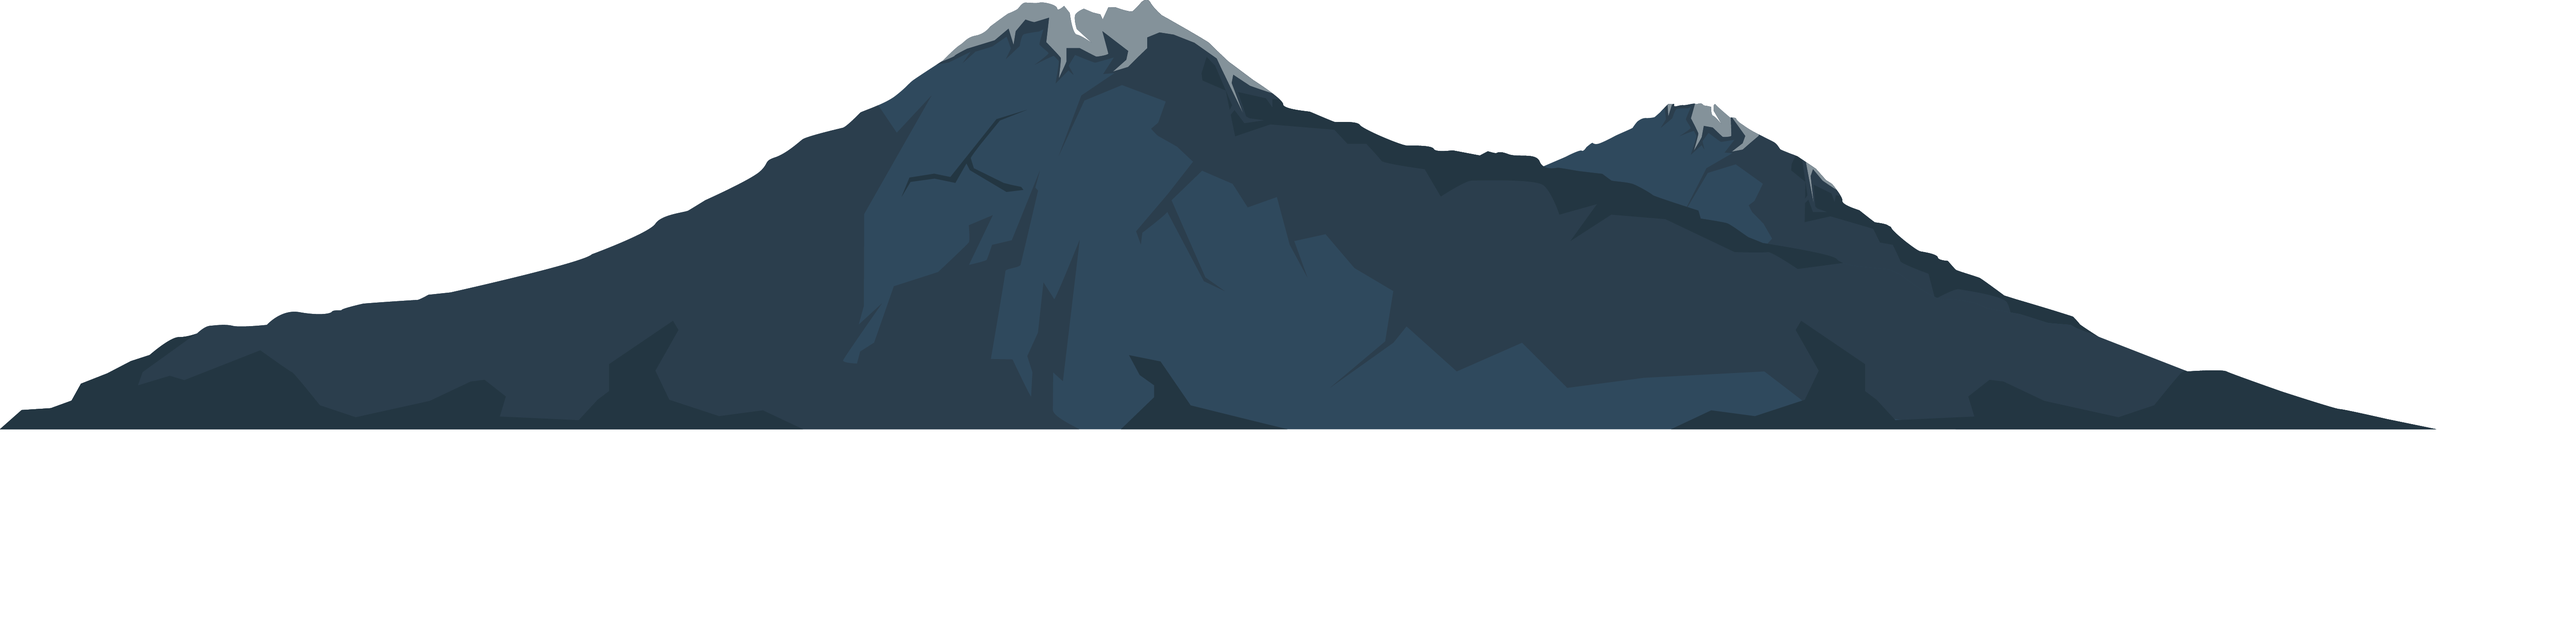
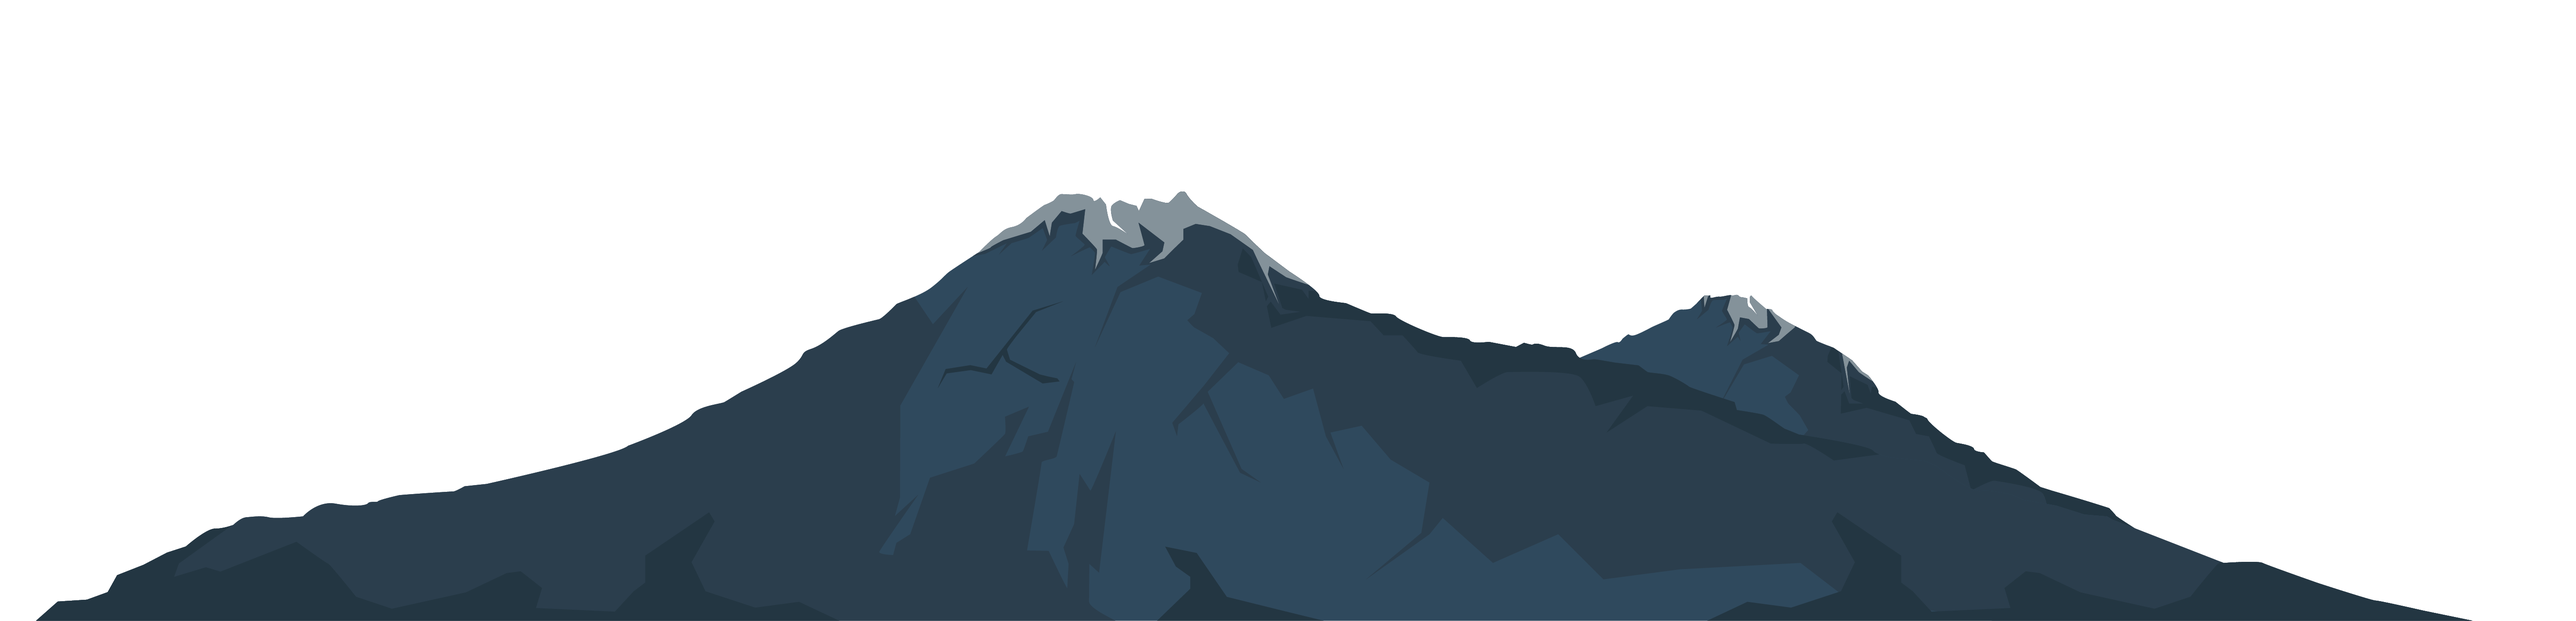
ubah

diff --git a/index.html b/index.html
@@ -88,6 +88,7 @@
                         <li class="white-text">
                             <p class="white-text">Official akun resmi PPSMB UGM, Line, Twitter, Instagram :<b class="penting-text">@PPSMB_UGM</b></p>
                         </li>
+            
                         <li class="white-text">
                             <p class="white-text">
                                 Sekretariat Subdirektorat Pengembangan Karakter Mahasiswa Direktorat Kemahasiswaan Universitas Gadjah Mada. Jl. Asem Kranji Blok K-8 Sekip, Yogyakarta. 
@@ -120,6 +121,7 @@
                     </div>
                 </div>
                 <div class="col-md-6 co-xs-12 text-right">
+                   
                     <div class="social-media">
                         <div class="social-wrapper">
                             <a href="https://www.facebook.com/PPSMB-Palapa-UGM-325374494259950/" class="fa fa-facebook" aria-hidden="true"></a>

diff --git a/css/style.css b/css/style.css
@@ -53,12 +53,13 @@ html {overflow-x: hidden;}
     background-color: #72CFED;*/
 }
 .bg-1 {
-    top: 20%;
+    top: -1%;
     width: 100%;
     height: 100%;
+    padding: 10% 0;
     min-height: 300px;
     background: url(../img/gunung.png);
-    background-size: 140%;
+    background-size: 150%;
     background-position: center bottom;
     background-repeat: no-repeat;
     position: relative;
